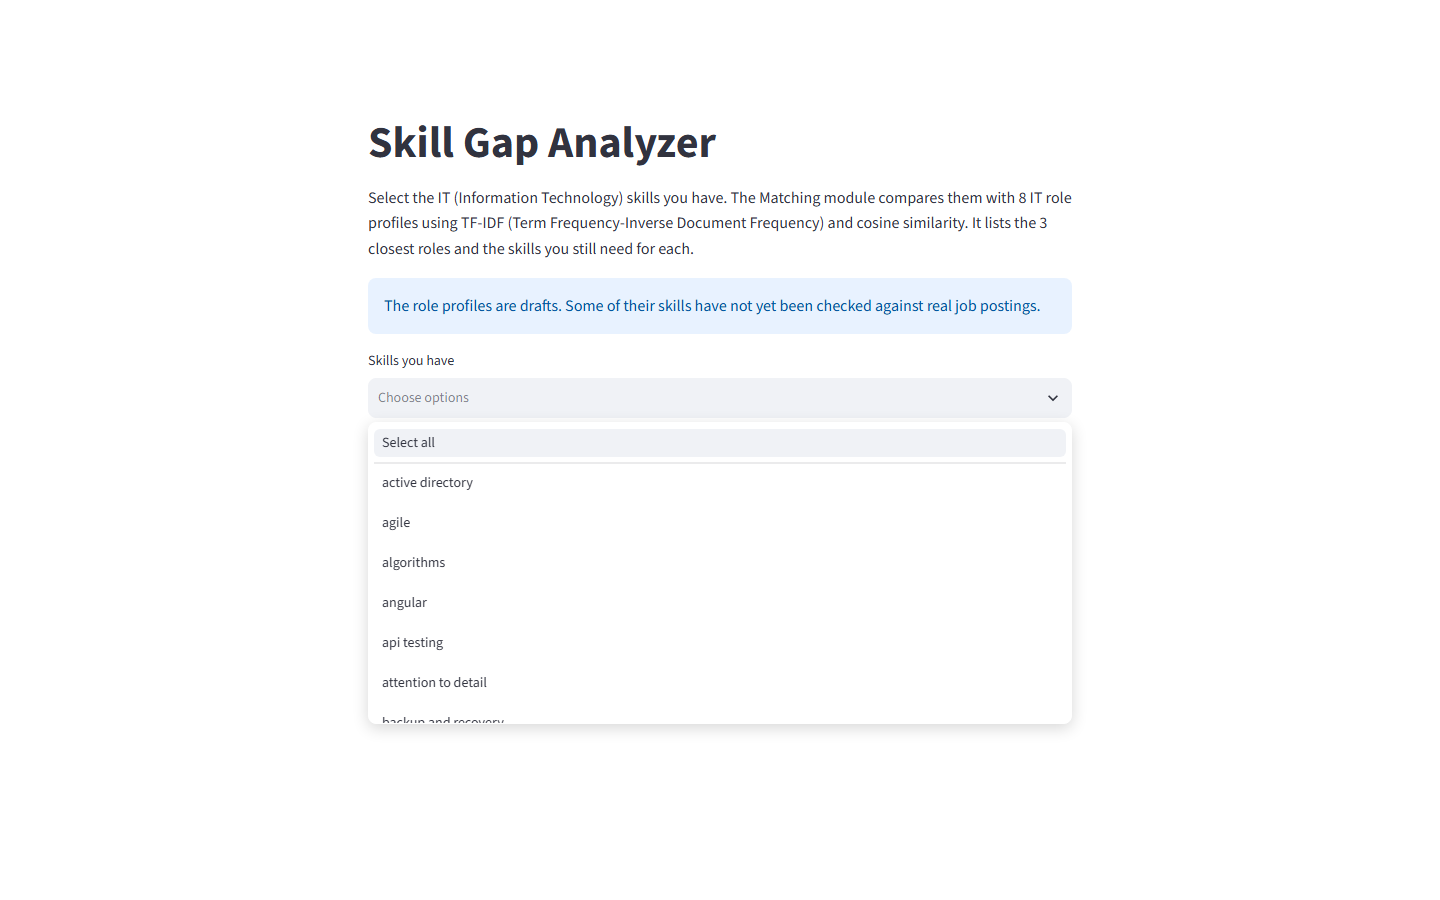
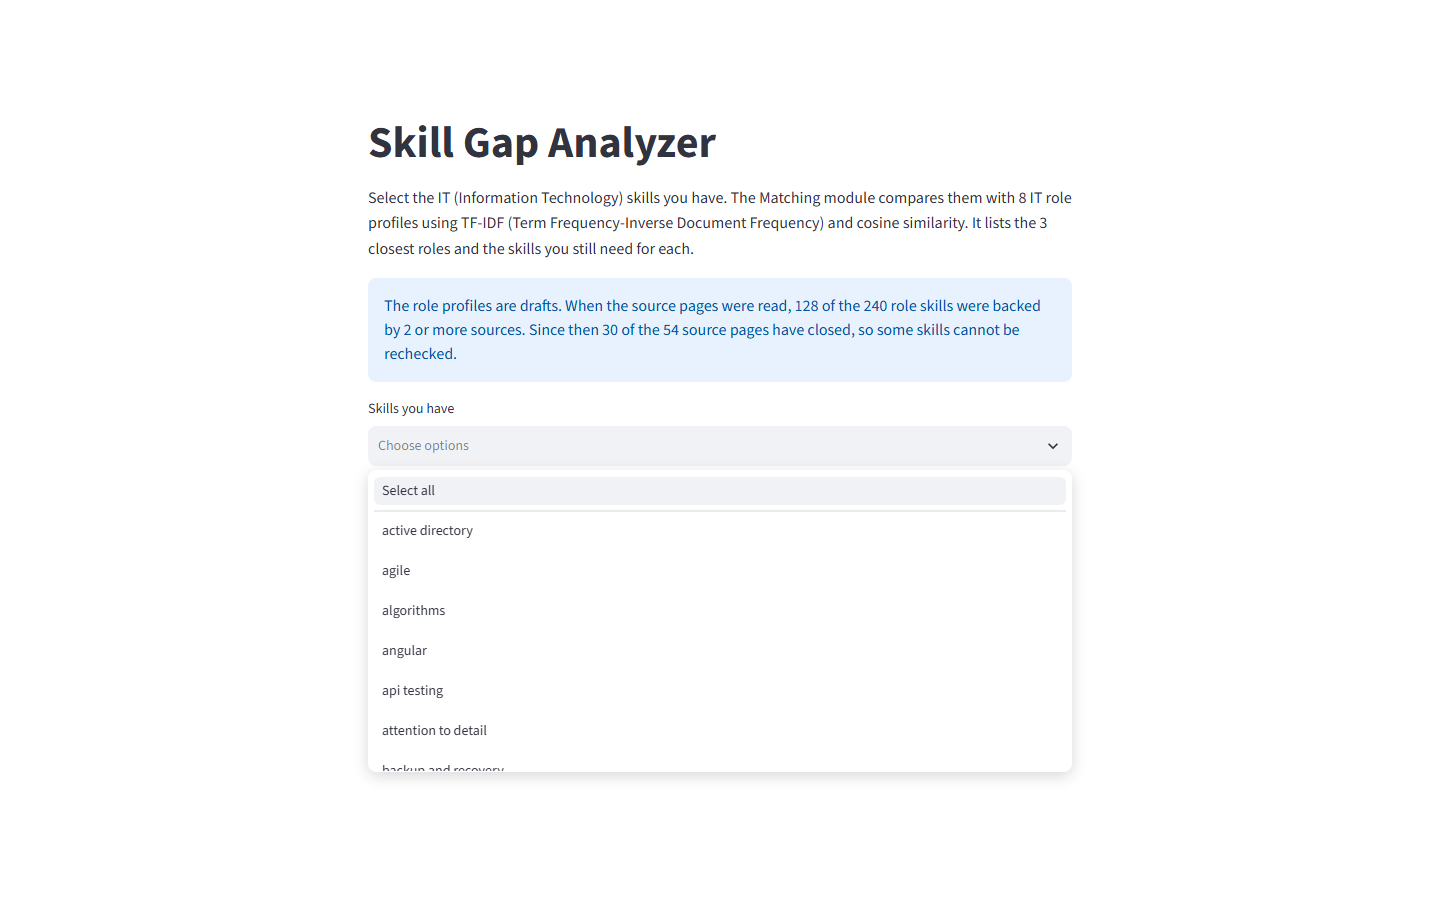
Recapture final screenshots with reworded notice

diff --git a/results/screenshots/final/README.md b/results/screenshots/final/README.md
@@ -1,6 +1,6 @@
 # Final screenshots for Chapter 4
 
-Captured on 2026-11-01 from the app running locally (`streamlit run app.py`, Streamlit 1.66.1). Each image is a PNG, 1440 px wide, taken with headless Chromium through Playwright, so no browser window frame is included. The Streamlit developer toolbar (Deploy button and main menu) was hidden with a style rule during capture. The app code was not changed. Skills were picked from the "Skills you have" list, as a user would.
+Recaptured on 2026-11-01 from the app running locally (`streamlit run app.py`, Streamlit 1.66.1) at commit `d0897b3`, so every image shows the reworded draft notice: "The role profiles are drafts. When the source pages were read, 128 of the 240 role skills were backed by 2 or more sources. Since then 30 of the 54 source pages have closed, so some skills cannot be rechecked." The inputs, roles, scores and skill lists are the same as in the first capture. Each image is a PNG, 1440 px wide, taken with headless Chromium through Playwright, so no browser window frame is included. The Streamlit developer toolbar (Deploy button and main menu) was hidden with a style rule during capture. The app code was not changed. Skills were picked from the "Skills you have" list, as a user would.
 
 | File | What it shows |
 |---|---|
@@ -11,3 +11,5 @@ Captured on 2026-11-01 from the app running locally (`streamlit run app.py`, Str
 | `fig6_miss_m04.png` | Mock profile M04 from `data/student_profiles_MOCK.csv` (python, javascript, git, ci/cd, docker, unit testing, sql, technical documentation, agile; true role Software Developer). Quality Assurance Tester is ranked first. Both it and Software Developer display 0.48; the unrounded scores are 0.4846 and 0.4831. Web Developer is third at 0.37. This is a top-1 miss: the true role is second, still inside the top 3. |
 
 Scores are cosine similarity between the student's skills and each role profile, on a scale of 0 to 1.
+
+Image sizes in pixels (width x height): `fig2_input_screen.png` 1440 x 900, `fig3_results_top3.png` 1440 x 1706, `fig4_empty_warning.png` 1440 x 900, `fig5_zero_score_hidden.png` 1440 x 1430, `fig6_miss_m04.png` 1440 x 1611. Each height is the height of the page content, except `fig2`, which is one 900 px screen with the list open.

diff --git a/docs/DECISIONS.md b/docs/DECISIONS.md
@@ -2,6 +2,15 @@
 
 Log of project decisions. Newest first. Add a dated entry for every decision, then commit and push it.
 
+## 2026-11-01 (Chapter 4 screenshots recaptured)
+
+- Recaptured the five images in `results/screenshots/final/` so they show the reworded draft notice from commit `d0897b3`.
+- Kept the same file names, because the paper loads them from raw GitHub URLs.
+- Used the same inputs and screen states as the first capture, from the app running locally at 1440 px width.
+- Checked each image: roles, scores, matched skills and missing skills are the same as before. Only the notice changed.
+- The notice now wraps to three lines and moves the content below it down 48 px, so heights changed: fig3 1699 to 1706, fig4 940 to 900, fig5 1423 to 1430, fig6 1604 to 1611. fig2 stays 1440 x 900.
+- Updated the screenshot README with the recapture note and the image sizes.
+
 ## 2026-11-01 (draft notice wording)
 
 - Replaced the draft notice in `app.py` with: "The role profiles are drafts. When the source pages were read, 128 of the 240 role skills were backed by 2 or more sources. Since then 30 of the 54 source pages have closed, so some skills cannot be rechecked."
